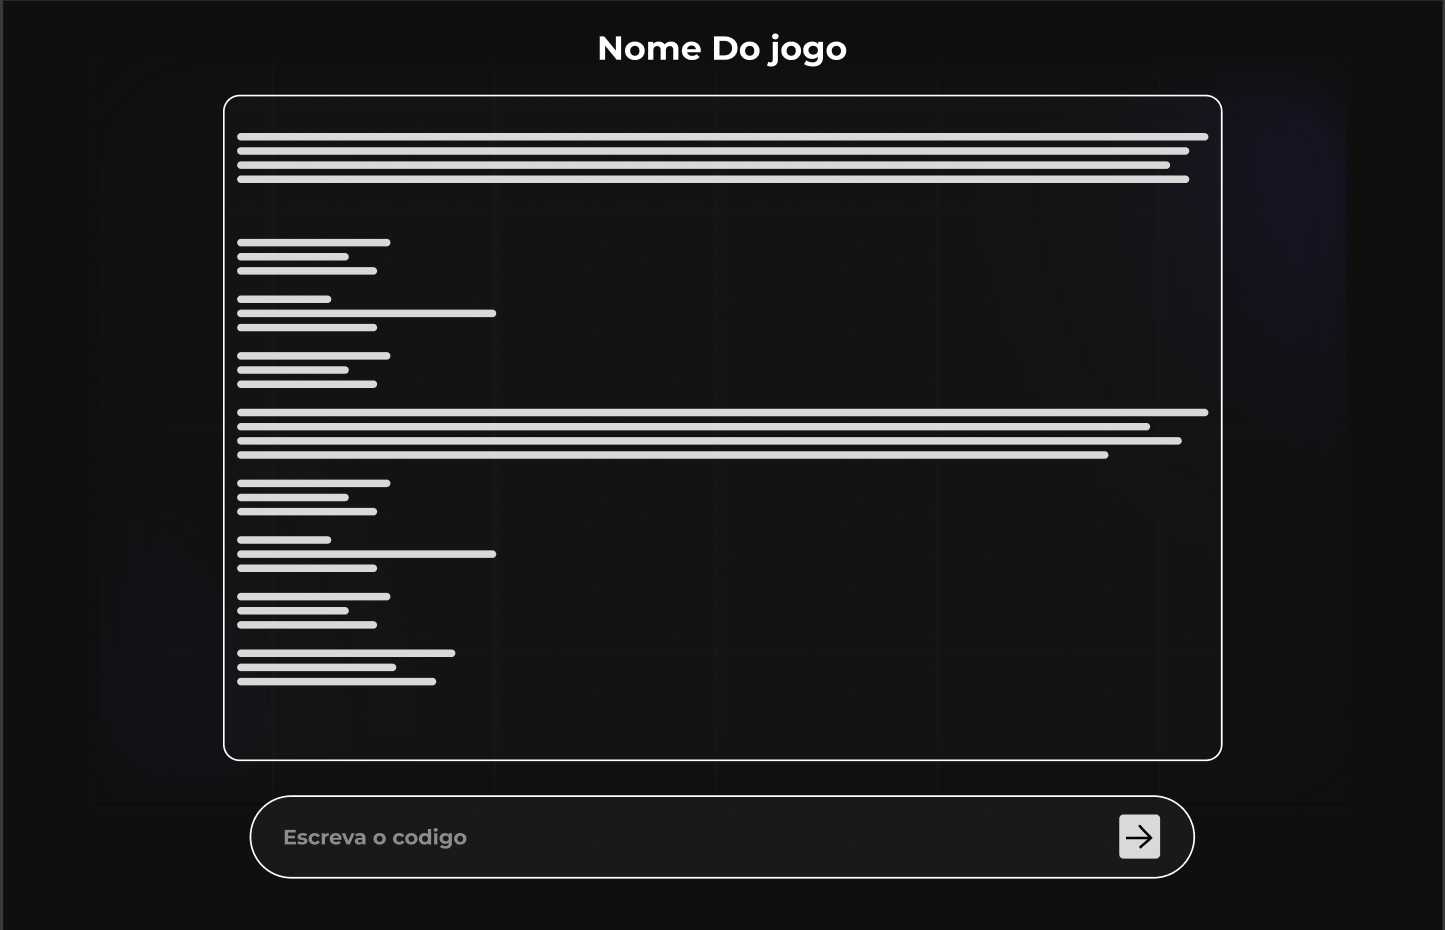
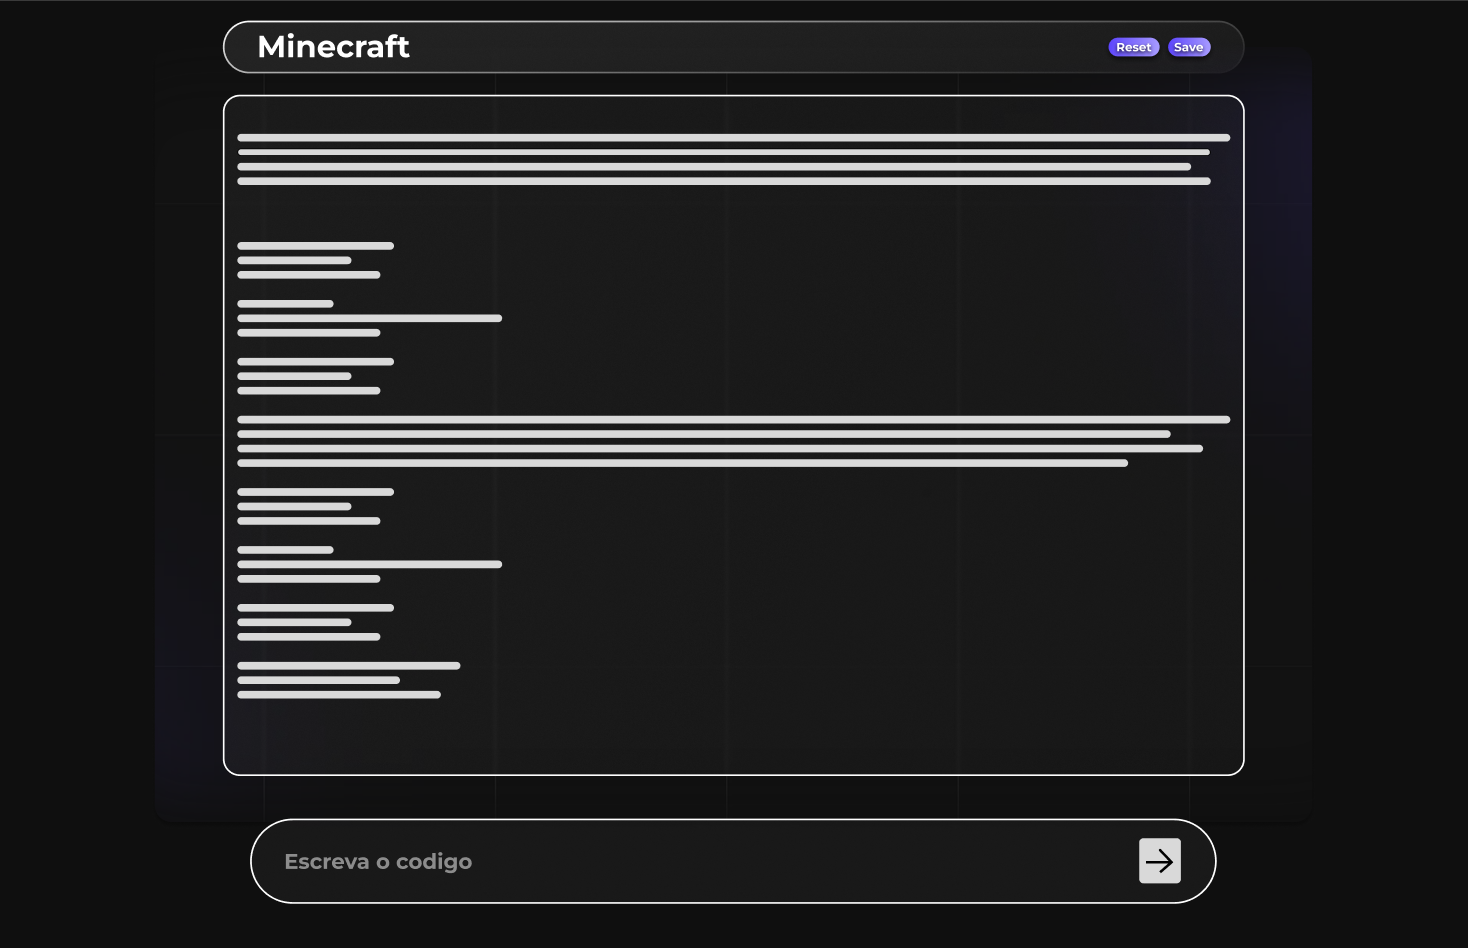
versão 1.6 header
ajuste de margin e padding do header

Changed region(s): [[0.1246, 0.0, 0.872, 0.8108], [0.1557, 0.8419, 0.8408, 0.9667], [0.9965, 0.0, 1.0, 1.0]]

diff --git a/css/style.scss b/css/style.scss
@@ -22,7 +22,8 @@ header {
 
         width: 100%;
         display: flex;
-        justify-content: space-between;
+        justify-content: center;
+        flex-direction: column;
         align-items: center;
         
         border-radius: 50px;
@@ -31,7 +32,8 @@ header {
 
             // h3
                 h2 {
-                    margin: 0;   
+                    margin: 0;
+                    margin-bottom: 10px;   
                     text-shadow: 0 2px 5px rgba(0, 0, 0, 0.638);         
                 }
 
@@ -50,6 +52,7 @@ header {
                     background-size: 200% auto;
                     border-radius: 20px;
                     border: none;
+                
 
                   &:hover {
                     background-position: right center;
@@ -108,6 +111,12 @@ main {
             width: 1000px;
             margin: 25px auto;
             padding: 10px 40px;
+            justify-content: space-between;
+            flex-direction: row;
+                
+            h2 {
+                margin: 0;
+            }
     }
 
     main {

diff --git a/css/style.css b/css/style.css
@@ -13,13 +13,15 @@ header {
   border: 2px solid;
   width: 100%;
   display: flex;
-  justify-content: space-between;
+  justify-content: center;
+  flex-direction: column;
   align-items: center;
   border-radius: 50px;
   padding: 10px;
   margin: 25px 0; }
   header h2 {
     margin: 0;
+    margin-bottom: 10px;
     text-shadow: 0 2px 5px rgba(0, 0, 0, 0.638); }
   header nav button {
     background-image: linear-gradient(to right, #5D45FD 0%, #A89CFF 51%, #5D45FD 100%);
@@ -61,7 +63,11 @@ main #main {
   header {
     width: 1000px;
     margin: 25px auto;
-    padding: 10px 40px; }
+    padding: 10px 40px;
+    justify-content: space-between;
+    flex-direction: row; }
+    header h2 {
+      margin: 0; }
 
   main #main {
     width: 1000px;
